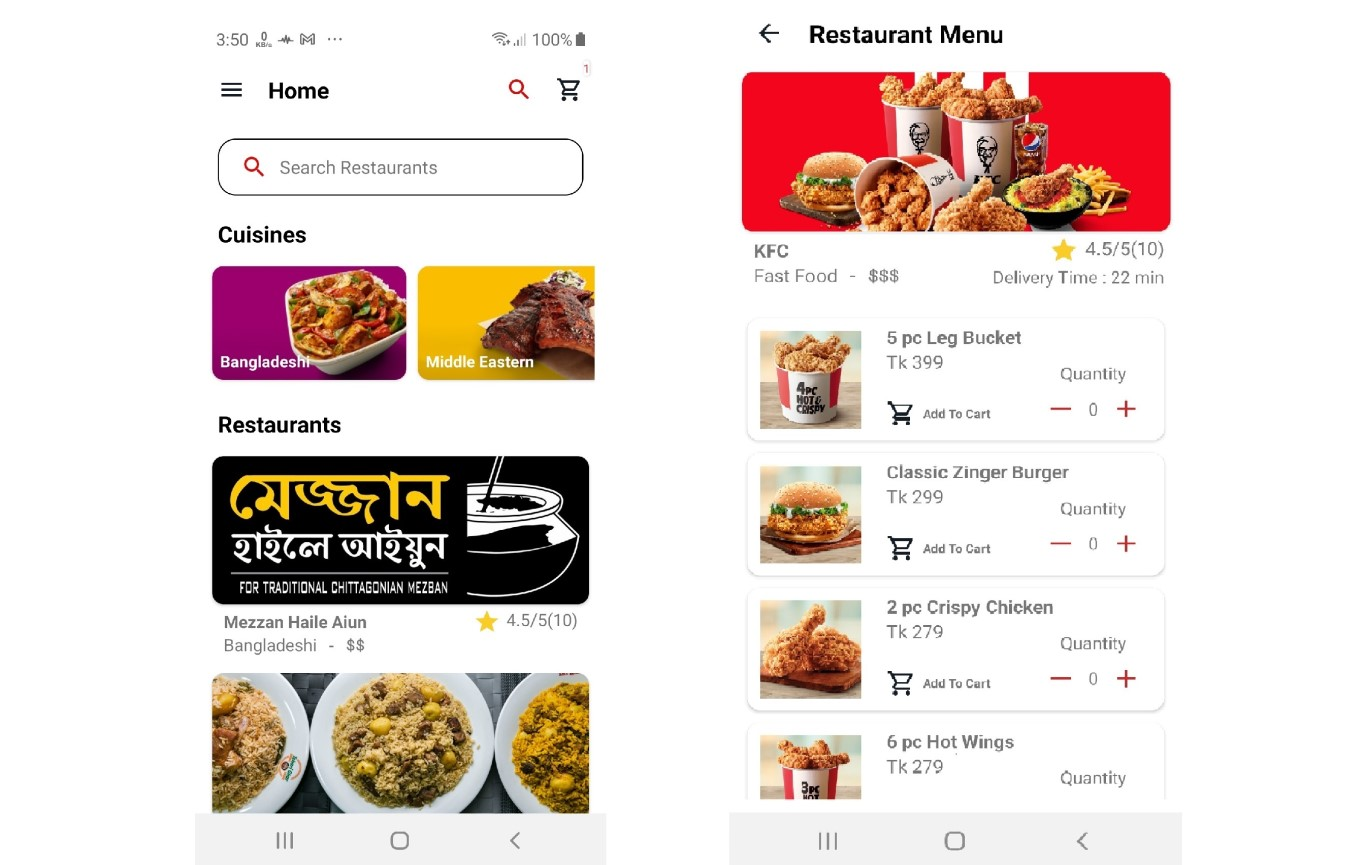
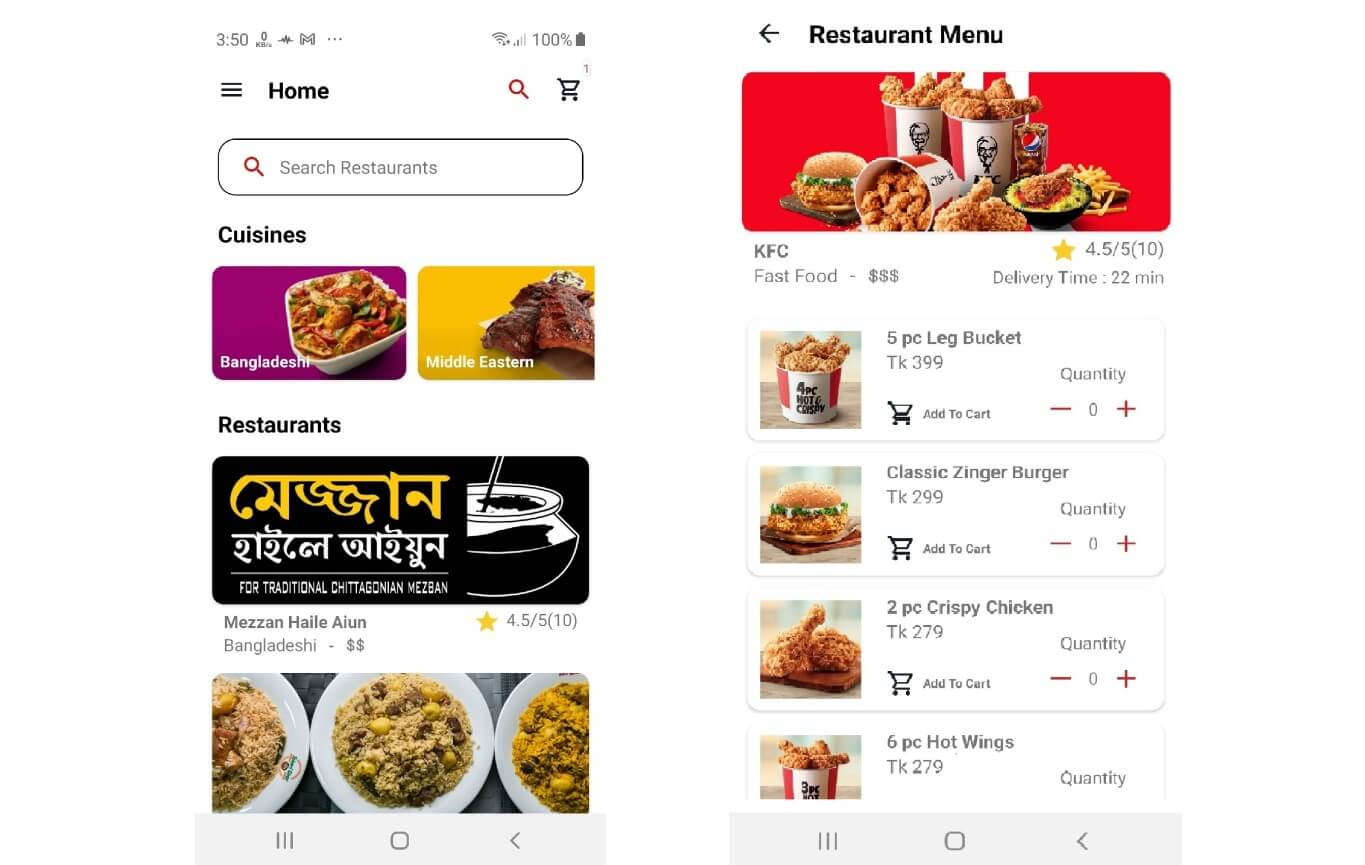
Compressed Images to optimize load time

diff --git a/index.html b/index.html
@@ -61,7 +61,7 @@
 		<div class="container">
 			<div class="row min-vh-100 align-items-center align-content-center">
 				<div class="hero col-md-5 hidden">
-					<img class="rounded-circle mw-100 p-5" src="Images/20230425_1743431.png">
+					<img class="rounded-circle mw-100 p-5" src="Images/20230425_1743431.jpeg">
 				</div>
 				<div class="hero col-md-7 order-md-first hidden">
 					<div>
@@ -87,7 +87,7 @@
 			</div>
 			<div class="row align-items-center">
 				<div class="about col-md-5 p-4 p-md-5 hidden">
-					<img class="rounded-3 w-100" src="Images/20230318_2130321.jpeg">
+					<img class="rounded-3 w-100" src="Images/20230318_2130321tiny.jpeg">
 				</div>
 				<div class="about col-md-7 text-sm-start hidden">
 					<div>
@@ -192,37 +192,37 @@
 				<div class="skill col-md-2 p-4 hidden">
 					<div class="box h-100 p-4">
 						<img src="Images/html-5.png" alt="HTML5 Icon" class="icon">
-						<h6 style="text-align: center; color: white; padding-top: 15px;">HTML</h6>
+						<span style="text-align: center; color: white; font-size: small; padding-top: 15px;">HTML</span>
 					</div>
 				</div>
 				<div class="skill col-md-2 p-4 hidden">
 					<div class="box h-100 p-4">
 						<img src="Images/css-3.png" alt="HTML5 Icon" class="icon">
-						<h6 style="text-align: center; color: white; padding-top: 15px;">CSS</h5>
+						<span style="text-align: center; color: white; font-size: small; padding-top: 15px;">CSS</span>
 					</div>
 				</div>
 				<div class="skill col-md-2 p-4 hidden">
 					<div class="box h-100 p-4">
 						<img src="Images/js.png" alt="HTML5 Icon" class="icon">
-						<h6 style="text-align: center; color: white; padding-top: 15px;">JS</h5>
+						<span style="text-align: center; color: white; font-size: small; padding-top: 15px;">JS</span>
 					</div>
 				</div>
 				<div class="skill col-md-2 p-4 hidden">
 					<div class="box h-100 p-4">
 						<img src="Images/c-.png" alt="HTML5 Icon" class="icon">
-						<h6 style="text-align: center; color: white; padding-top: 15px;">C/C++</h5>
+						<span style="text-align: center; color: white; font-size: small; padding-top: 15px;">C/C++</span>
 					</div>
 				</div>
 				<div class="skill col-md-2 p-4 hidden">
 					<div class="box h-100 p-4">
 						<img src="Images/python.png" alt="HTML5 Icon" class="icon">
-						<h6 style="text-align: center; color: white; padding-top: 15px;">Python</h5>
+						<span style="text-align: center; color: white; font-size: small; padding-top: 15px;">Python</span>
 					</div>
 				</div>
 				<div class="skill col-md-2 p-4 hidden">
 					<div class="box h-100 p-4">
 						<img src="Images/dotnetcore.png" alt="HTML5 Icon" class="icon">
-						<h6 style="text-align: center; color: white; padding-top: 15px;">ASP.NET Core</h5>
+						<span style="text-align: center; color: white; font-size: small; padding-top: 15px;">ASP.NET Core</span>
 					</div>
 				</div>
 			</div>
@@ -231,31 +231,31 @@
 				<div class="skill col-md-2 p-4 hidden">
 					<div class="box h-100 p-4">
 						<img src="Images/c-sharp.png" alt="HTML5 Icon" class="icon">
-						<h6 style="text-align: center; color: white; padding-top: 15px;">C#</h5>
+						<span style="text-align: center; color: white; font-size: small; padding-top: 15px;">C#</span>
 					</div>
 				</div>
 				<div class="skill col-md-2 p-4 hidden">
 					<div class="box h-100 p-4">
 						<img src="Images/Kotlin_Icon_202.png" alt="HTML5 Icon" class="icon">
-						<h6 style="text-align: center; color: white; padding-top: 15px;">Kotlin</h5>
+						<span style="text-align: center; color: white; font-size: small; padding-top: 15px;">Kotlin</span>
 					</div>
 				</div>
 				<div class="skill col-md-2 p-4 hidden">
 					<div class="box h-100 p-4">
 						<img src="Images/sql-server.png" alt="HTML5 Icon" class="icon">
-						<h6 style="text-align: center; color: white; padding-top: 15px;">SQL Server</h5>
+						<span style="text-align: center; color: white; font-size: small; padding-top: 15px;">SQL Server</span>
 					</div>
 				</div>
 				<div class="skill col-md-2 p-4 hidden">
 					<div class="box h-100 p-4">
 						<img src="Images/oracle.png" alt="HTML5 Icon" class="icon">
-						<h6 style="text-align: center; color: white; padding-top: 15px;">Oracle DB</h5>
+						<span style="text-align: center; color: white; font-size: small; padding-top: 15px;">Oracle DB</span>
 					</div>
 				</div>
 				<div class="skill col-md-2 p-4 hidden">
 					<div class="box h-100 p-4">
 						<img src="Images/java.png" alt="HTML5 Icon" class="icon">
-						<h6 style="text-align: center; color: white; padding-top: 15px;">JAVA</h5>
+						<span style="text-align: center; color: white; font-size: small; padding-top: 15px;">JAVA</span>
 					</div>
 				</div>
 			</div>
@@ -276,7 +276,7 @@
 					<div class="h-100"
 						style="width: auto; background-color: #24292f; box-shadow: 0px 4px 6px rgba(0, 0, 0, 0.1); border-radius: 10px;">
 						<div class="image-container">
-							<img src="Images/Screenshot 2022-07-03 162752.png" class="card-img-top" alt="..."
+							<img src="Images/Screenshot 2022-07-03 162752.jpeg" class="card-img-top" alt="..."
 								style="border-radius: 10px 10px 0 0;">
 							<div class="text-overlay">2D Platformer Game made using the iGraphics Library and C++.</div>
 						</div>
@@ -293,7 +293,7 @@
 					<div class="h-100"
 						style="width: auto; background-color: #24292f; box-shadow: 0px 4px 6px rgba(0, 0, 0, 0.1); border-radius: 10px;">
 						<div class="image-container">
-							<img src="Images/Screenshot 2021-10-05 202049.png" class="card-img-top" alt="..."
+							<img src="Images/Screenshot 2021-10-05 202049.jpeg" class="card-img-top" alt="..."
 								style="border-radius: 10px 10px 0 0;">
 							<div class="text-overlay">Online Computer Shop Application made using JAVA FX and MySQL
 								database.</div>
@@ -322,8 +322,8 @@
 							<h5 class="card-title pb-2">Hello Food</h5>
 							<!-- <p class="card-text">An food delivery application made using Android Studio in Kotlin programming language.</p> -->
 							<a class="more-info-button btn btn-danger me-2">More Info</a>
-							<a href="#" class="px-2 h5 text-light align-middle"><i class="fa-brands fa-github "></i></a>
-							<a href="https://github.com/AzmainO7/HelloFood" class="px-2 h5 text-light align-middle"><i
+							<a href="https://github.com/AzmainO7/HelloFood" class="px-2 h5 text-light align-middle"><i class="fa-brands fa-github "></i></a>
+							<a href="#" class="px-2 h5 text-light align-middle"><i
 									class="fa-brands fa-youtube"></i></a>
 						</div>
 					</div>
@@ -334,7 +334,7 @@
 					<div class="h-100"
 						style="width: auto; background-color: #24292f; box-shadow: 0px 4px 6px rgba(0, 0, 0, 0.1); border-radius: 10px;">
 						<div class="image-container">
-							<img src="Images/Screenshot 2023-05-25 163536.png" class="card-img-top" alt="..."
+							<img src="Images/Screenshot 2023-05-25 163536.jpeg" class="card-img-top" alt="..."
 								style="border-radius: 10px 10px 0 0;">
 							<div class="text-overlay">Payroll Management Application built using Java Swing and
 								Microsoft SQL Server database.</div>
@@ -353,7 +353,7 @@
 					<div class="h-100"
 						style="width: auto; background-color: #24292f; box-shadow: 0px 4px 6px rgba(0, 0, 0, 0.1); border-radius: 10px;">
 						<div class="image-container">
-							<img src="Images/Tours-And-Travel-Website-master-2023-05-25-16_39_321.png"
+							<img src="Images/Tours-And-Travel-Website-master-2023-05-25-16_39_321.jpeg"
 								class="card-img-top" alt="..." style="border-radius: 10px 10px 0 0;">
 							<div class="text-overlay">Tours and Travel Website built using Html, CSS, Bootstrap, PHP
 								and MySQL database.</div>
@@ -373,7 +373,7 @@
 					<div class="h-100"
 						style="width: auto; background-color: #24292f; box-shadow: 0px 4px 6px rgba(0, 0, 0, 0.1); border-radius: 10px;">
 						<div class="image-container">
-							<img src="Images/screencapture-localhost-44382-2023-05-25-16_50_451.png"
+							<img src="Images/screencapture-localhost-44382-2023-05-25-16_50_451.jpeg"
 								class="card-img-top" alt="..." style="border-radius: 10px 10px 0 0;">
 							<div class="text-overlay">University Programming Club Website built using ASP.NET Core 6.0,
 								C#, SQL Server Database.</div>
@@ -397,7 +397,7 @@
 
 	<section id="Contact" class="text-light py-5 px-0 px-sm-5 text-center"
 		style="background-color: #1B1F24; background-image: linear-gradient(rgba(27, 31, 36, 0.5), rgba(27, 31, 36, 0.5)), 
-		url('Images/20221105_164640.png'); background-repeat: no-repeat; background-size: cover; background-attachment: fixed;">
+		url('Images/20221105_164640.jpeg'); background-repeat: no-repeat; background-size: cover; background-attachment: fixed;">
 		<div class="container pb-0">
 			<div class="pb-4">
 				<p class="text-light">Feel free to contact me anytimes</p>

diff --git a/js/site.js b/js/site.js
@@ -46,7 +46,7 @@ document.addEventListener('DOMContentLoaded', function() {
 
 const observer = new IntersectionObserver((entries) => {
     entries.forEach((entry) => {
-        console.log(entry)
+        //console.log(entry)
         if (entry.isIntersecting) {
             entry.target.classList.add('show');
             entry.target.classList.add('show1');

diff --git a/css/style.css b/css/style.css
@@ -36,7 +36,7 @@ body {
     transform: scale(1.2);
 }
 
-.box:hover h6 {
+.box:hover span {
     display: none;
 }
 
@@ -148,4 +148,8 @@ body {
 
 /* .portfolio:hover .text-overlay {
     opacity: 1;
+}
+
+.portfolio:hover .card-img-top {
+    opacity: 0.5;
 } */
